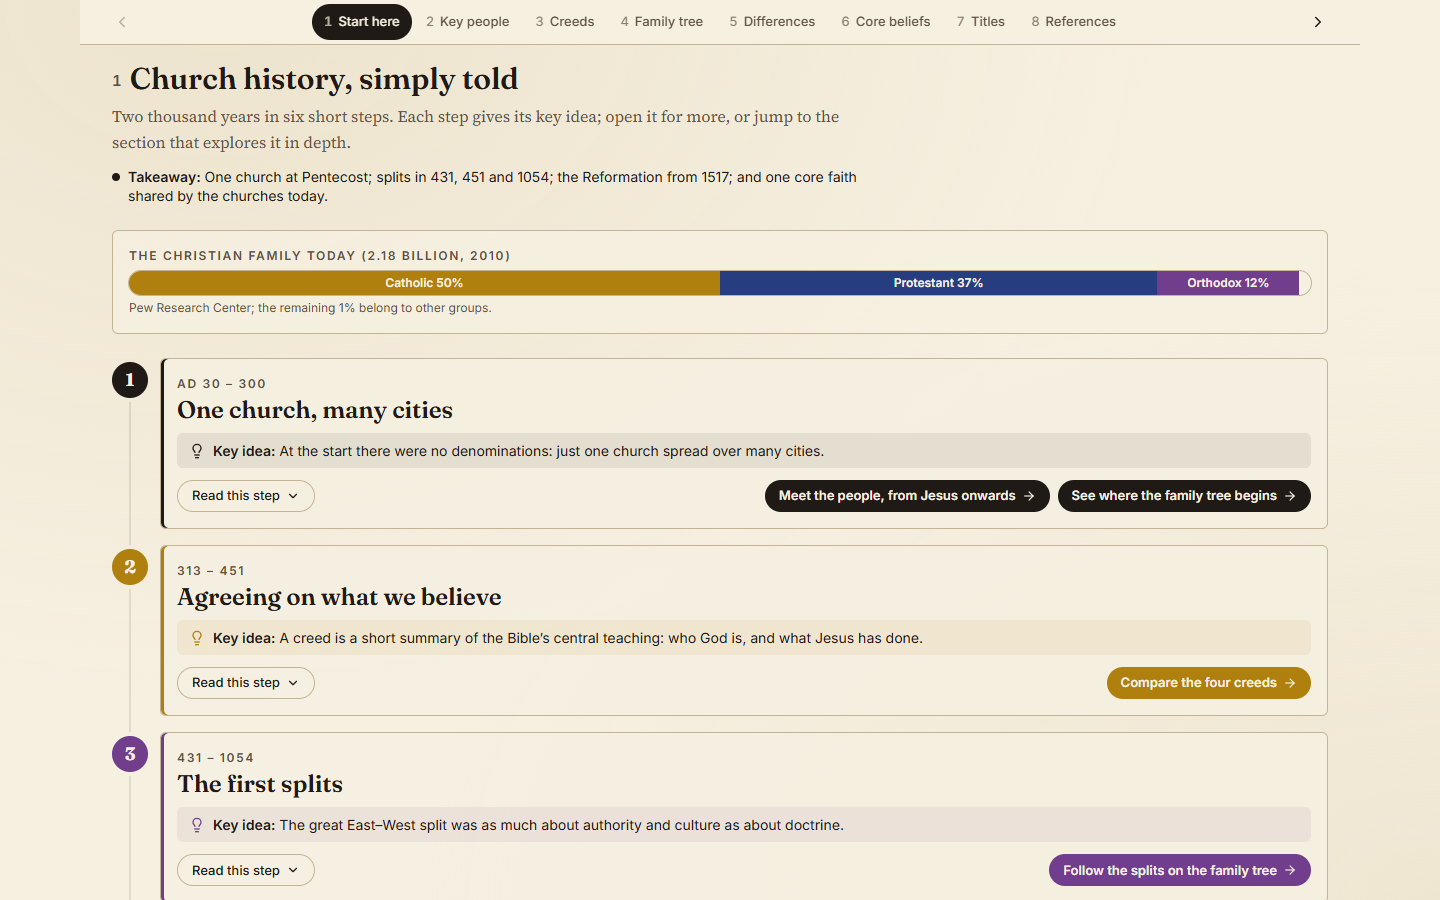
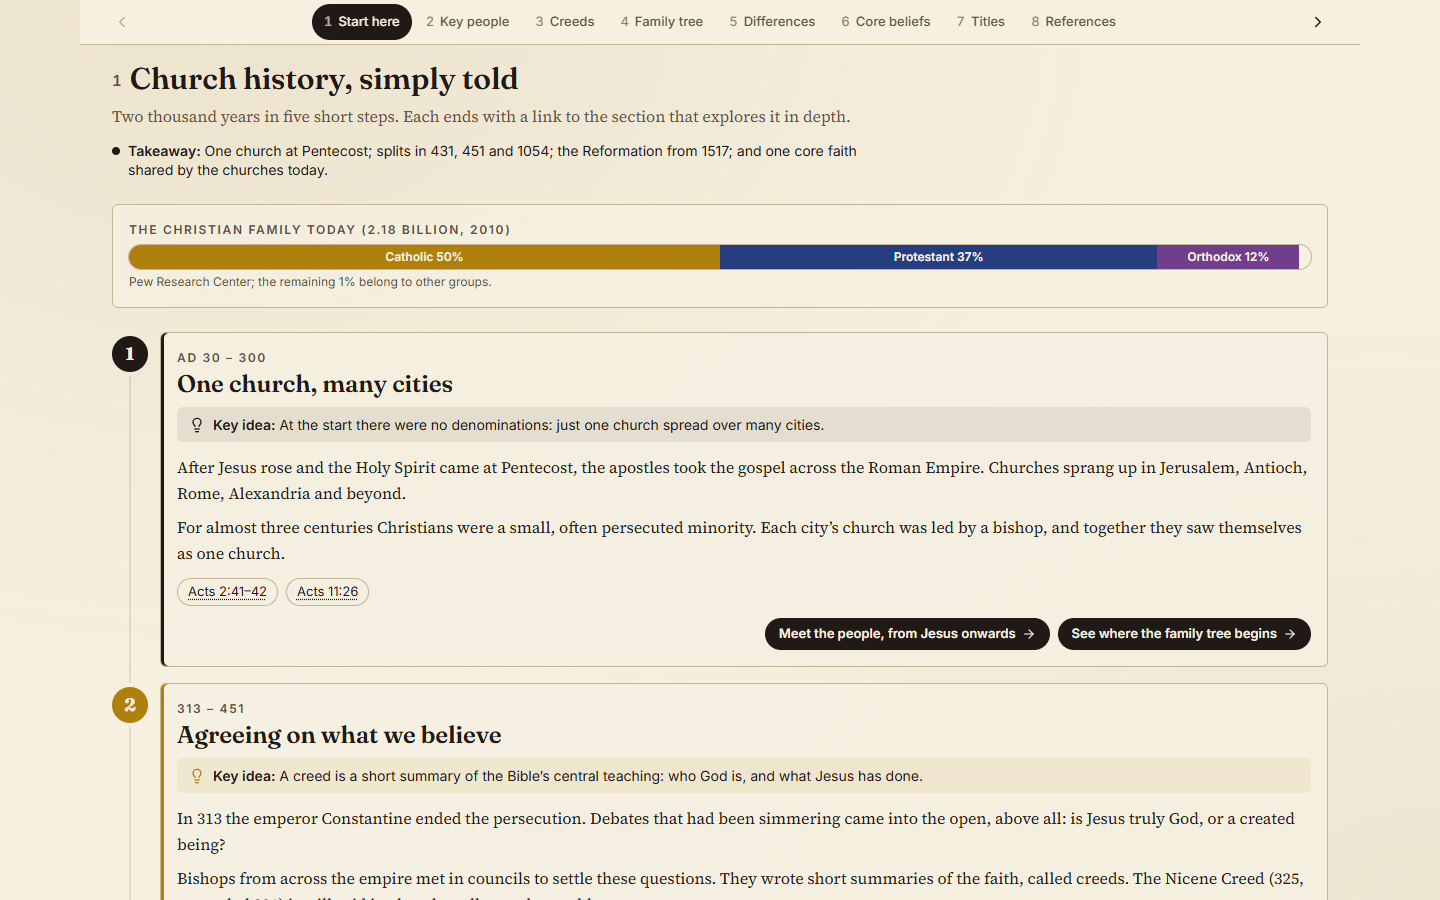
Home cards are single links; Start here steps open in full (five steps); era strip is the Key people switch; Books in view fits phones

Changed region(s): [[0.0625, 0.1244, 0.9375, 0.7778], [0.0625, 0.7467, 0.9062, 1.0]]

diff --git a/src/components/HomePage.tsx b/src/components/HomePage.tsx
@@ -14,7 +14,6 @@ interface Feature {
   art: ReactNode;
   blurb: string;
   points: string[];
-  tries: { label: string; href: string }[];
 }
 
 const FEATURES: Feature[] = [
@@ -26,11 +25,6 @@ const FEATURES: Feature[] = [
     art: <LanguagesArt />,
     blurb: 'How the 66 books were written in Hebrew, Aramaic and Greek, copied by hand, numbered into chapters and verses, and translated.',
     points: ['Every book by its original language', 'From ancient scrolls to chapter and verse', 'Translations from the Septuagint to today'],
-    tries: [
-      { label: 'Which books contain Aramaic?', href: 'languages.html#languages' },
-      { label: 'Which books are in the Bible?', href: 'languages.html#canon' },
-      { label: 'How the Bible was translated', href: 'languages.html#translations' },
-    ],
   },
   {
     href: 'characters.html',
@@ -40,10 +34,6 @@ const FEATURES: Feature[] = [
     art: <CharactersArt />,
     blurb: '266 people of Scripture on one timeline, with their families, friendships and rivalries.',
     points: ['Timeline by lifetime or by book', 'A network of 441 relationships', 'The line of Jesus, from Adam'],
-    tries: [
-      { label: 'Meet David', href: 'characters.html?person=david' },
-      { label: 'Explore the network', href: 'characters.html#network' },
-    ],
   },
   {
     href: 'map.html',
@@ -53,10 +43,6 @@ const FEATURES: Feature[] = [
     art: <MapArt />,
     blurb: 'Where each book was written and set, and 129 journeys you can watch unfold on the map.',
     points: ['Every book’s places and journeys', 'Distances stop by stop', 'Abraham, the Exodus, Jesus and Paul'],
-    tries: [
-      { label: 'Follow Paul’s journeys', href: 'map.html#journeys' },
-      { label: 'The journeys in Acts', href: 'map.html#book=44' },
-    ],
   },
   {
     href: 'history.html',
@@ -66,12 +52,6 @@ const FEATURES: Feature[] = [
     art: <HistoryArt />,
     blurb: 'How the church branched, where its traditions differ, what the creeds confess, and who stands outside them.',
     points: ['A family tree from Pentecost to today', 'Catholic, Orthodox and Protestant families compared', 'The four creeds, side by side and line by line'],
-    tries: [
-      { label: 'Start here: the story simply told', href: 'history.html#start' },
-      { label: 'From Jesus to today: key people', href: 'history.html#people' },
-      { label: 'Compare the church families', href: 'history.html#traditions' },
-      { label: 'Core beliefs compared', href: 'history.html#compare' },
-    ],
   },
 ];
 
@@ -113,22 +93,20 @@ export function HomePage() {
         </h2>
         <div className="grid gap-5 md:grid-cols-2">
           {FEATURES.map((f) => (
-            <article
+            <a
               key={f.href}
-              className="group relative flex flex-col overflow-hidden rounded-md border border-rule bg-paper/85 shadow-sm transition-shadow hover:shadow-md"
+              href={f.href}
+              className="focus-ring group relative flex flex-col overflow-hidden rounded-md border border-rule bg-paper/85 shadow-sm transition-shadow hover:border-ink/40 hover:shadow-md"
               style={{ boxShadow: `inset 0 3px 0 ${cssColor(f.css)}` }}
             >
-              <a href={f.href} className="focus-ring block" aria-label={`Open ${f.title}`}>
-                <div className="h-32 overflow-hidden border-b border-rule px-4 pt-4 sm:h-36" style={{ background: cssColor(f.css, 0.05) }}>
-                  <div className="h-full transition-transform duration-500 group-hover:scale-[1.03]">{f.art}</div>
-                </div>
-              </a>
+              <div className="h-32 overflow-hidden border-b border-rule px-4 pt-4 sm:h-36" style={{ background: cssColor(f.css, 0.05) }}>
+                <div className="h-full transition-transform duration-500 group-hover:scale-[1.03]">{f.art}</div>
+              </div>
               <div className="flex flex-1 flex-col px-5 py-4">
                 <h3 className="flex items-center gap-2 font-display text-2xl font-semibold">
                   <f.icon size={20} style={{ color: cssColor(f.css) }} aria-hidden />
-                  <a href={f.href} className="focus-ring rounded-sm hover:underline hover:decoration-rule hover:underline-offset-4">
-                    {f.title}
-                  </a>
+                  <span className="group-hover:underline group-hover:decoration-rule group-hover:underline-offset-4">{f.title}</span>
+                  <ArrowRight size={20} aria-hidden className="ml-auto shrink-0 transition-transform group-hover:translate-x-1" style={{ color: cssColor(f.css) }} />
                 </h3>
                 <p className="mt-1 font-serif text-[15.5px] leading-snug">{f.blurb}</p>
                 <ul className="mt-2 space-y-0.5 font-sans text-[13px] text-ink-soft">
@@ -141,26 +119,8 @@ export function HomePage() {
                     </li>
                   ))}
                 </ul>
-                <div className="mt-auto flex flex-wrap items-center gap-2 pt-4">
-                  <a
-                    href={f.href}
-                    className="focus-ring inline-flex items-center gap-1.5 rounded-full px-3.5 py-1.5 font-sans text-[13px] font-semibold text-paper"
-                    style={{ background: cssColor(f.css) }}
-                  >
-                    Open {f.title} <ArrowRight size={14} aria-hidden />
-                  </a>
-                  {f.tries.map((t) => (
-                    <a
-                      key={t.href}
-                      href={t.href}
-                      className="focus-ring rounded-full border border-rule px-3 py-1.5 font-sans text-[12.5px] hover:border-ink/50"
-                    >
-                      {t.label}
-                    </a>
-                  ))}
-                </div>
               </div>
-            </article>
+            </a>
           ))}
         </div>
       </section>

diff --git a/src/components/history/KeyPeople.tsx b/src/components/history/KeyPeople.tsx
@@ -33,46 +33,39 @@ function Diamond({ css, size = 10 }: { css: string; size?: number }) {
   return <span aria-hidden className="inline-block shrink-0 rotate-45" style={{ width: size, height: size, background: cssColor(css) }} />;
 }
 
-/** The whole two thousand years as one strip of eras; tap an era to open it. */
+/**
+ * The eras from Jesus to today, in order, as one strip: tap an era to show it. Each era gets an equal
+ * share of the strip (the early eras are short in years but full of people), with its dates beneath.
+ */
 function EraStrip({ era, onPick }: { era: EraId; onPick: (id: EraId) => void }) {
-  const from = -10,
-    to = 2025;
-  const x = (y: number) => ((y - from) / (to - from)) * 100;
-  const bounds = [-10, 100, 300, 500, 1000, 1500, 1650, 1900, 2025];
+  const starts = ['AD 1', '100', '300', '500', '1000', '1500', '1650', '1900'];
+  const short = ['Jesus & apostles', 'Church fathers', 'Councils & creeds', 'Early Middle Ages', 'Middle Ages', 'Reformation', 'Revival & mission', 'World church'];
   return (
-    // A picture of the eras across 2,000 years; the era buttons below are the controls (a tap here still opens an era).
-    <div className="rounded-md border border-rule bg-paper/80 px-3 py-3" aria-hidden>
-      <div className="relative h-8">
+    <div role="radiogroup" aria-label="Era" className="rounded-md border border-rule bg-paper/80 p-2">
+      <div className="grid grid-cols-8 gap-1">
         {ERAS.map((e, i) => {
-          const l = x(bounds[i]),
-            w = x(bounds[i + 1]) - l;
           const on = e.id === era;
           return (
-            <span
+            <button
               key={e.id}
-              onClick={() => onPick(e.id)}
+              role="radio"
+              aria-checked={on}
+              aria-label={`${i + 1}. ${e.name}, ${e.span}`}
               title={`${e.name} (${e.span})`}
-              className="absolute inset-y-0 flex cursor-pointer items-center justify-center border-r border-paper transition-colors"
-              style={{ left: `${l}%`, width: `${w}%`, background: on ? cssColor('--ink', 0.85) : cssColor('--ink', 0.08 + (i % 2) * 0.05) }}
+              onClick={() => onPick(e.id)}
+              className={`focus-ring flex min-h-11 flex-col items-center justify-center rounded-md px-0.5 transition-colors ${on ? 'bg-ink text-paper' : 'hover:bg-ink/[0.07]'}`}
+              style={on ? undefined : { background: cssColor('--ink', 0.05 + (i % 2) * 0.04) }}
             >
-              <span className={`font-sans text-[12px] font-bold tabular-nums ${on ? 'text-paper' : 'text-ink-soft'}`}>{i + 1}</span>
-            </span>
+              <span className="font-sans text-[15px] font-bold tabular-nums">{i + 1}</span>
+              <span className={`hidden font-sans text-[12px] leading-tight md:block ${on ? 'text-paper/80' : 'text-ink-soft'}`}>{short[i]}</span>
+            </button>
           );
         })}
-        {/* each person as a tick */}
-        {WITNESSES.map((w) => (
-          <span
-            key={w.id}
-            aria-hidden
-            className="pointer-events-none absolute bottom-0 h-1.5 w-px"
-            style={{ left: `${x((w.from + w.to) / 2)}%`, background: cssColor(w.stream === 'jesus' ? '--lineage' : '--paper', w.stream === 'jesus' ? 1 : 0.8) }}
-          />
-        ))}
       </div>
-      <div className="relative mt-1 h-4 font-sans text-[12px] tabular-nums text-ink-soft">
-        {[1, 500, 1000, 1500, 2000].map((t) => (
-          <span key={t} className="absolute -translate-x-1/2" style={{ left: `${x(t)}%` }}>
-            {t === 1 ? 'AD 1' : t}
+      <div className="mt-1 grid grid-cols-8 gap-1 font-sans text-[12px] tabular-nums text-ink-soft">
+        {starts.map((y, i) => (
+          <span key={y} className={`pl-0.5 ${i % 2 ? 'hidden sm:block' : ''}`}>
+            {y}
           </span>
         ))}
       </div>
@@ -193,19 +186,6 @@ export function KeyPeople() {
 
       <EraStrip era={era} onPick={pick} />
 
-      <div className="flex flex-wrap gap-1.5">
-        {ERAS.map((x, i) => (
-          <button
-            key={x.id}
-            onClick={() => pick(x.id)}
-            aria-pressed={x.id === era}
-            className={`focus-ring rounded-full border px-3 py-1.5 font-sans text-[13px] ${x.id === era ? 'border-ink bg-ink text-paper' : 'border-rule hover:border-ink/60'}`}
-          >
-            <span className="mr-1 tabular-nums opacity-70">{i + 1}</span>
-            {x.name}
-          </button>
-        ))}
-      </div>
 
       <div id="people-chart" className="scroll-mt-32 space-y-4">
         <header className="border-b border-ink/80 pb-2">

diff --git a/src/components/history/StartHere.tsx b/src/components/history/StartHere.tsx
@@ -1,12 +1,10 @@
-import { useCallback, useState } from 'react';
-import { ArrowRight, ChevronDown, Lightbulb } from 'lucide-react';
+import { ArrowRight, Lightbulb } from 'lucide-react';
 import { cssColor } from '../../lib/characters';
 import { RefText } from '../ScriptureRef';
-import { useOpenTarget } from '../sections';
 
 /**
- * Church history told simply, as a short path of steps. Each step shows its era, title and key idea;
- * the rest opens on request, and a button jumps to the section that goes deeper.
+ * Church history told simply, in five steps, each read in full, with a button to the section that
+ * goes deeper.
  */
 interface Step {
   era: string;
@@ -98,17 +96,6 @@ const STEPS: Step[] = [
       { tab: 'compare', label: 'See who shares the core' },
     ],
   },
-  {
-    era: 'Along the way',
-    title: 'Who’s who',
-    css: '--role-patriarch',
-    body: [
-      'Each tradition developed its own leaders and titles: popes and patriarchs, bishops and priests, pastors, elders and deacons. Many of these words come straight from the Greek of the New Testament.',
-    ],
-    idea: '“Bishop” means overseer, “elder” means elder, and “deacon” means servant.',
-    refs: ['1 Timothy 3:1–8'],
-    next: [{ tab: 'titles', label: 'Learn the titles' }],
-  },
 ];
 
 const FAMILIES = [
@@ -117,11 +104,8 @@ const FAMILIES = [
   { name: 'Orthodox', pct: 12, css: '--role-priest' },
 ];
 
-/** One step: era, title and key idea always visible; the body, words and passages on request. */
+/** One step, read in full: era, title, key idea, the story, simple definitions and passages. */
 function StepCard({ s, i, go }: { s: Step; i: number; go: (id: string) => void }) {
-  const [open, setOpen] = useState(false);
-  const bodyId = `step-${i + 1}-body`;
-  useOpenTarget([`step-${i + 1}`], useCallback(() => setOpen(true), []));
   return (
     <article className="rounded-md border border-rule bg-paper/90 px-4 py-4" style={{ boxShadow: `inset 3px 0 0 ${cssColor(s.css)}` }}>
       <div className="eyebrow">
@@ -135,7 +119,7 @@ function StepCard({ s, i, go }: { s: Step; i: number; go: (id: string) => void }
           <b>Key idea:</b> {s.idea}
         </span>
       </p>
-      <div id={bodyId} hidden={!open} className="mt-3">
+      <div className="mt-3">
         <div className="space-y-2 font-serif text-[16px] leading-relaxed">
           {s.body.map((p) => (
             <p key={p}>{p}</p>
@@ -161,15 +145,6 @@ function StepCard({ s, i, go }: { s: Step; i: number; go: (id: string) => void }
         )}
       </div>
       <div className="mt-3 flex flex-wrap items-center gap-2">
-        <button
-          onClick={() => setOpen((o) => !o)}
-          aria-expanded={open}
-          aria-controls={bodyId}
-          className="focus-ring inline-flex min-h-8 items-center gap-1.5 rounded-full border border-rule px-3.5 font-sans text-[13px] font-medium hover:border-ink/50"
-        >
-          {open ? 'Show less' : 'Read this step'}
-          <ChevronDown size={14} aria-hidden className={`transition-transform ${open ? 'rotate-180' : ''}`} />
-        </button>
         <span className="ml-auto flex flex-wrap gap-2">
           {s.next.map((n) => (
             <button

diff --git a/src/components/BreakdownView.tsx b/src/components/BreakdownView.tsx
@@ -258,7 +258,7 @@ export function BreakdownView({ langBooks, visible, division, onDivision, onOpen
               <thead>
                 <tr className="border-y border-rule text-left">
                   {['#', 'Book', 'Division', 'Ch.', 'Language'].map((h) => (
-                    <th key={h} scope="col" className={`eyebrow px-3 py-2 first:pl-5 last:pr-5 ${h === 'Division' ? 'hidden sm:table-cell' : ''}`}>
+                    <th key={h} scope="col" className={`eyebrow px-3 py-2 first:pl-5 last:pr-5 ${h === 'Division' || h === '#' ? 'hidden sm:table-cell' : ''}`}>
                       {h}
                     </th>
                   ))}
@@ -271,8 +271,8 @@ export function BreakdownView({ langBooks, visible, division, onDivision, onOpen
                     onClick={() => onOpen(b.order)}
                     className="cursor-pointer hover:bg-ink/[0.04]"
                   >
-                    <td className="py-2 pl-5 pr-3 tabular-nums text-ink-soft">{b.order}</td>
-                    <td className="px-3 py-2">
+                    <td className="hidden py-2 pl-5 pr-3 tabular-nums text-ink-soft sm:table-cell">{b.order}</td>
+                    <td className="py-2 pl-4 pr-3 sm:pl-3">
                       <button
                         onClick={(e) => {
                           e.stopPropagation();
@@ -286,8 +286,8 @@ export function BreakdownView({ langBooks, visible, division, onDivision, onOpen
                     <td className="hidden px-3 py-2 text-ink-soft sm:table-cell">{b.division}</td>
                     <td className="px-3 py-2 tabular-nums">{b.chapters}</td>
                     <td className="py-2 pl-3 pr-5">
-                      <div className="flex items-center gap-2">
-                        <span className="w-28">
+                      <div className="flex flex-col gap-1 sm:flex-row sm:items-center sm:gap-2">
+                        <span className="block w-16 sm:w-28">
                           <LanguageBar
                             segments={b.languages.map((l) => ({
                               language: l.language as Language,

diff --git a/src/components/history/HistoryPage.tsx b/src/components/history/HistoryPage.tsx
@@ -14,7 +14,7 @@ import { Fold, NextPage, OnThisPage, PageSection, jumpTo, useSectionHash, type S
 /**
  * Church history as one page, in learning order: the overview; the people; what the early church
  * agreed to believe; how it split; how the traditions differ today; who shares the core faith; and
- * who's who. Section ids keep the old tab links working (#creeds, #creeds-read, #compare …).
+ * who's who (titles). Section ids keep the old tab links working (#creeds, #creeds-read, #compare …).
  */
 const SECTIONS: SectionDef[] = [
   { id: 'start', label: 'Church history, simply told', short: 'Start here' },
@@ -50,7 +50,7 @@ export function HistoryPage() {
         n={1}
         first
         title="Church history, simply told"
-        lead="Two thousand years in six short steps. Each step gives its key idea; open it for more, or jump to the section that explores it in depth."
+        lead="Two thousand years in five short steps. Each ends with a link to the section that explores it in depth."
         takeaway="One church at Pentecost; splits in 431, 451 and 1054; the Reformation from 1517; and one core faith shared by the churches today."
       >
         <StartHere go={go} />

diff --git a/README.md b/README.md
@@ -93,11 +93,11 @@ The map covers the Mediterranean and the Ancient Near East, drawn in a parchment
 
 The Church History page works like a short course on one scrolling page: seven numbered sections in learning order, with the same "On this page" bar (‹ › to step through them). Each section has its own link (for example `history.html#creeds`, or `history.html#creeds-read` to open the creed reader). Each starts with a lead and a one-line takeaway; dense blocks (the creed reader, who confesses which creed, the benchmark table, the eight traditions, the title cards) fold away until opened. The old `#translations` and `#verses` links now open those sections on The Bible page.
 
-![Start here: church history in six simple steps](docs/screenshots/history-start.png)
+![Start here: church history in five simple steps](docs/screenshots/history-start.png)
 
 ![The family tree of the church](docs/screenshots/history-tree.png)
 
-- **Start here.** Church history simply told, in six steps (one church; agreeing on the creeds; the first splits; the Reformation; different churches, one core faith; who's who), each showing its key idea at a glance; open a step for its story, simple definitions and passages, or jump to the section that goes deeper.
+- **Start here.** Church history simply told, in five steps (one church; agreeing on the creeds; the first splits; the Reformation; different churches, one core faith), each with its key idea, the story, simple definitions and passages, and a button to the section that goes deeper.
 - **Key people.** From Jesus to today, in eight eras: Jesus and the apostles, the early church fathers, councils and creeds, the early Middle Ages, the Middle Ages, the Reformation, revival and mission, and the world church. Each era is a timeline of lifespans (71 people, with martyrs marked) and councils, persecutions and events. Teachers whose teaching the church rejected (Marcion, Arius, Pelagius, Nestorius and others) are shown dashed. Tap a person for who they were and how they pointed to Jesus, often in their own words, with each quotation linked to its primary text. The section is framed by Hebrews 12:1–2, and Start here now ends with a short "Looking to Jesus" note.
 
 ![From Jesus to today: key people by era](docs/screenshots/history-people.png)
